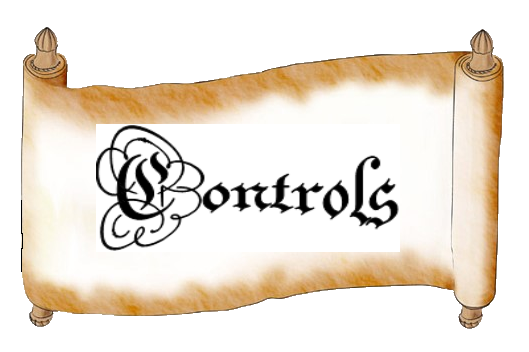
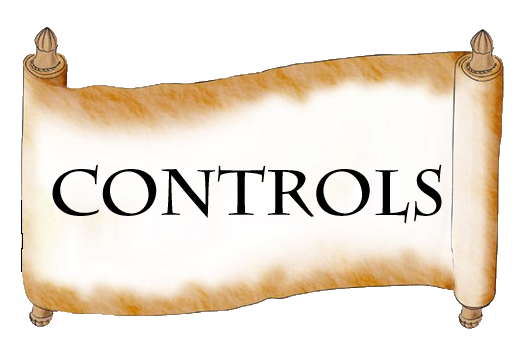
Added game over screen, added tank lives, changed few fonts

Changed region(s): [[0.0907, 0.3438, 0.8469, 0.7188], [0.5747, 0.6875, 0.7561, 0.7188]]

diff --git a/SuperTank/SuperTank/SuperTank/Tutorial.cs b/SuperTank/SuperTank/SuperTank/Tutorial.cs
@@ -34,7 +34,7 @@ namespace SuperTank
         public string SKeyText = string.Empty;
         public string DKeyText = string.Empty;
         public string LeftMouseClickText = string.Empty;
-        public string MouseText = string.Empty;
+        public string MouseMoveText = string.Empty;
 
         public Tutorial(Game game, ContentManager theContent, Viewport theViewport, GraphicsDevice theGraphicsDevice)
             : base(game)
@@ -72,10 +72,10 @@ namespace SuperTank
                 new Vector2(((Game1)Game).graphics.PreferredBackBufferWidth / 2 - (((Game1)Game).graphics.PreferredBackBufferWidth / 20),
                     (((Game1)Game).graphics.PreferredBackBufferHeight / 2) - (((Game1)Game).graphics.PreferredBackBufferHeight / 4) - (((Game1)Game).graphics.PreferredBackBufferHeight / 12)), content);
 
-            mouseLines1 = new Line(new Vector2((((Game1)Game).graphics.PreferredBackBufferWidth / 3),
+            mouseLines1 = new Line(new Vector2((2 * ((Game1)Game).graphics.PreferredBackBufferWidth / 3),
                 (((Game1)Game).graphics.PreferredBackBufferHeight / 2) - (((Game1)Game).graphics.PreferredBackBufferHeight / 4)),
-                new Vector2(((Game1)Game).graphics.PreferredBackBufferWidth / 2 - (((Game1)Game).graphics.PreferredBackBufferWidth / 20),
-                    (((Game1)Game).graphics.PreferredBackBufferHeight / 2) - (((Game1)Game).graphics.PreferredBackBufferHeight / 4) - (((Game1)Game).graphics.PreferredBackBufferHeight / 12)), content);
+                new Vector2(((Game1)Game).graphics.PreferredBackBufferWidth / 2,
+                    (((Game1)Game).graphics.PreferredBackBufferHeight / 2) - (((Game1)Game).graphics.PreferredBackBufferHeight / 8)), content);
 
             controlsLines.Add(Keys.A, new Line(new Vector2(((Game1)Game).graphics.PreferredBackBufferWidth / 7,
                 (((Game1)Game).graphics.PreferredBackBufferHeight / 2) + (((Game1)Game).graphics.PreferredBackBufferHeight / 4)),
@@ -121,16 +121,7 @@ namespace SuperTank
             DrawControllerText(SKeyText, Keys.S, batch, false);
 
             DrawControllerText(LeftMouseClickText, batch, true);
-            //DrawControllerText(LeftMouseClickText, , batch, true); 
-            //DrawControllerText(YButtonText, Buttons.Y, batch, false);
-            //DrawControllerText(LeftThumbStickText, Buttons.LeftStick, batch, true);
-            //DrawControllerText(RightThumbStickText, Buttons.RightStick, batch, false);
-            //DrawControllerText(LeftTriggerText, Buttons.LeftTrigger, batch, true);
-            //DrawControllerText(RightTriggerText, Buttons.RightTrigger, batch, false);
-            //DrawControllerText(LeftShoulderText, Buttons.LeftShoulder, batch, true);
-            //DrawControllerText(RightShoulderText, Buttons.RightShoulder, batch, false);
-            //DrawControllerText(BackButtonText, Buttons.Back, batch, true);
-            //DrawControllerText(StartButtonText, Buttons.Start, batch, false);
+            DrawControllerText1(MouseMoveText, batch, false);
         }
 
         // draw the line and the text that accompanies it
@@ -167,6 +158,24 @@ namespace SuperTank
 
                 int aYPos = (int)mouseLines.EndPointOne.Y - (int)(controlsText.MeasureString(mouseText).Y / 2);
                 batch.DrawString(controlsText, mouseText, new Vector2(aXPos, aYPos), Color.Black);
+            }
+        }
+
+        private void DrawControllerText1(string mouseText, SpriteBatch batch, bool isLeft)
+        {
+            if (mouseText != string.Empty)
+            {
+                mouseLines1.lineColor = Color.Black;
+                mouseLines1.Draw(batch);
+
+                int aXPos1 = 0;
+                if (isLeft)
+                    aXPos1 = (int)mouseLines1.EndPointOne.X - (int)controlsText.MeasureString(mouseText).X;
+                else
+                    aXPos1 = (int)mouseLines1.EndPointOne.X;
+
+                int aYPos1 = (int)mouseLines1.EndPointOne.Y - (int)(controlsText.MeasureString(mouseText).Y / 2);
+                batch.DrawString(controlsText, mouseText, new Vector2(aXPos1, aYPos1), Color.Black);
             }
         }
     }

diff --git a/SuperTank/SuperTank/SuperTank/Game1.cs b/SuperTank/SuperTank/SuperTank/Game1.cs
@@ -35,8 +35,17 @@ namespace SuperTank
         // controls screen background
         private Texture2D controlsBackground;
 
+        // lose screen background
+        private Texture2D GameOver;
+
         // title
         private Texture2D title;
+
+        private Texture2D life;
+
+        SpriteFont pericles14;
+
+        private Vector2 livesLocation;
 
         private Texture2D hat1;
         private Texture2D hat2;
@@ -132,6 +141,16 @@ namespace SuperTank
             tankTex = Content.Load<Texture2D>("tanksheet4");
             bullet = Content.Load<Texture2D>("bullet");
             tiles = Content.Load<Texture2D>("tiles");
+
+            pericles14 = Content.Load<SpriteFont>("Pericles14");
+
+            GameOver = Content.Load<Texture2D>("gameOver");
+
+            int offset = 50;
+
+            livesLocation = new Vector2((graphics.PreferredBackBufferWidth / 30) + offset, (14 * graphics.PreferredBackBufferHeight / 15));
+
+            life = Content.Load<Texture2D>("life");
 
             Tank.texture2 = bullet;
 
@@ -236,6 +255,15 @@ namespace SuperTank
                     btnBack.Update(ms);
                     break;
                 case GameState.Play:
+                    KeyboardState mKeys = Keyboard.GetState();
+                    if (mKeys.IsKeyDown(Keys.Up) == true)
+                    {
+                        if (t1.LivesRemaining > 0)
+                            t1.LivesRemaining -= 1;
+                        else
+                            currentGameState = GameState.Lose;
+                    }
+
                     IsMouseVisible = false;
                         if (lastMs.LeftButton == ButtonState.Released && ms.LeftButton == ButtonState.Pressed)
                         {
@@ -422,6 +450,14 @@ namespace SuperTank
                     btnArray[1].Draw(spriteBatch);
                     btnArray[2].Draw(spriteBatch);
                     break;
+                case GameState.Lose:
+                    spriteBatch.Draw(GameOver, new Rectangle((graphics.PreferredBackBufferWidth / 2) - GameOver.Width / 2, (graphics.PreferredBackBufferHeight / 2) - GameOver.Height / 2, GameOver.Width, GameOver.Height), Color.White);
+                    spriteBatch.DrawString(
+                        pericles14,
+                        " You got stomped by wizards... in tanks ",
+                        new Vector2((graphics.PreferredBackBufferWidth / 2) - graphics.PreferredBackBufferWidth / 4, (graphics.PreferredBackBufferHeight / 2) + graphics.PreferredBackBufferHeight / 4),
+                        Color.DarkRed);
+                    break;
                 case GameState.Controls:
                     spriteBatch.Draw(controlsBackground, new Rectangle(0, 0, graphics.PreferredBackBufferWidth, graphics.PreferredBackBufferHeight), Color.White);
                     ctrlsTutorial.Draw(spriteBatch);
@@ -440,6 +476,12 @@ namespace SuperTank
                     }
 
                     spriteBatch.Draw(reticle, new Vector2(Mouse.GetState().X, Mouse.GetState().Y), new Rectangle(0, 0, 9, 9), Color.White, 0f, new Vector2(9 / 2, 9 / 2), 1.0f, SpriteEffects.None, 0);
+                    spriteBatch.DrawString(
+                        pericles14,
+                        " X " + t1.LivesRemaining.ToString(),
+                        livesLocation,
+                        Color.White);
+                    spriteBatch.Draw(life, new Rectangle(graphics.PreferredBackBufferWidth / 30, (12 * graphics.PreferredBackBufferHeight / 13), life.Width, life.Height), Color.White);
                     break;
             }
 

diff --git a/SuperTank/SuperTank/SuperTank/Tank.cs b/SuperTank/SuperTank/SuperTank/Tank.cs
@@ -28,6 +28,8 @@ namespace SuperTank
         private float cannonAngle;
         private List<BoundingSphere> spheres;
 
+        public int LivesRemaining = 5;
+
         //Accessors and mutators.
         public Texture2D Texture
         {
